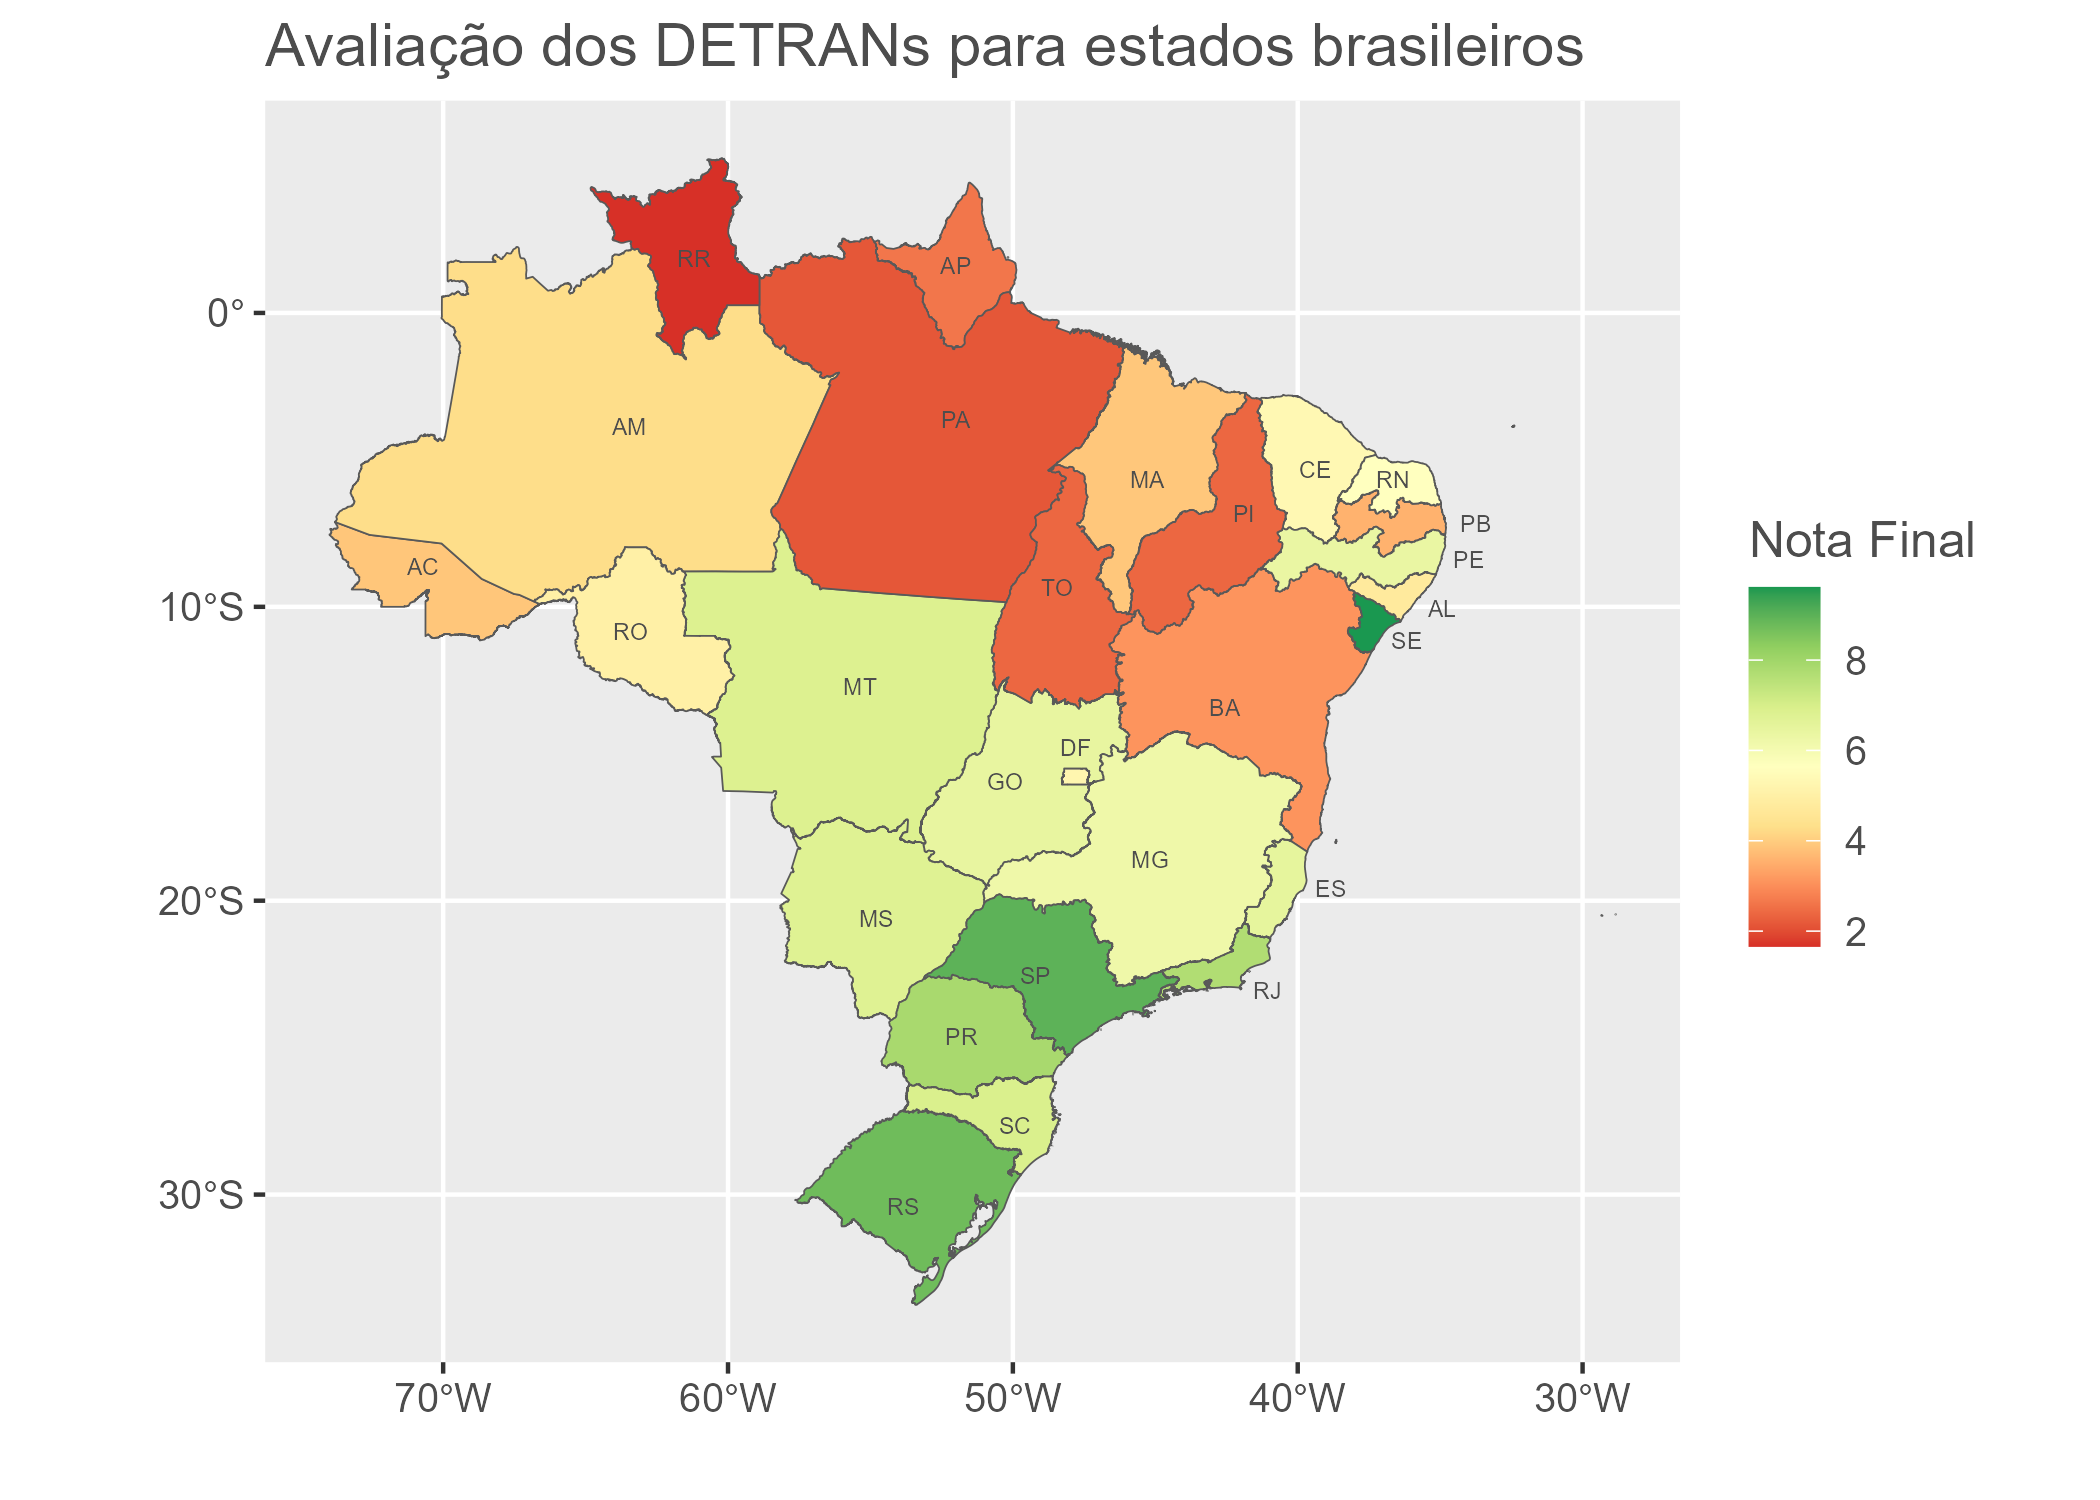
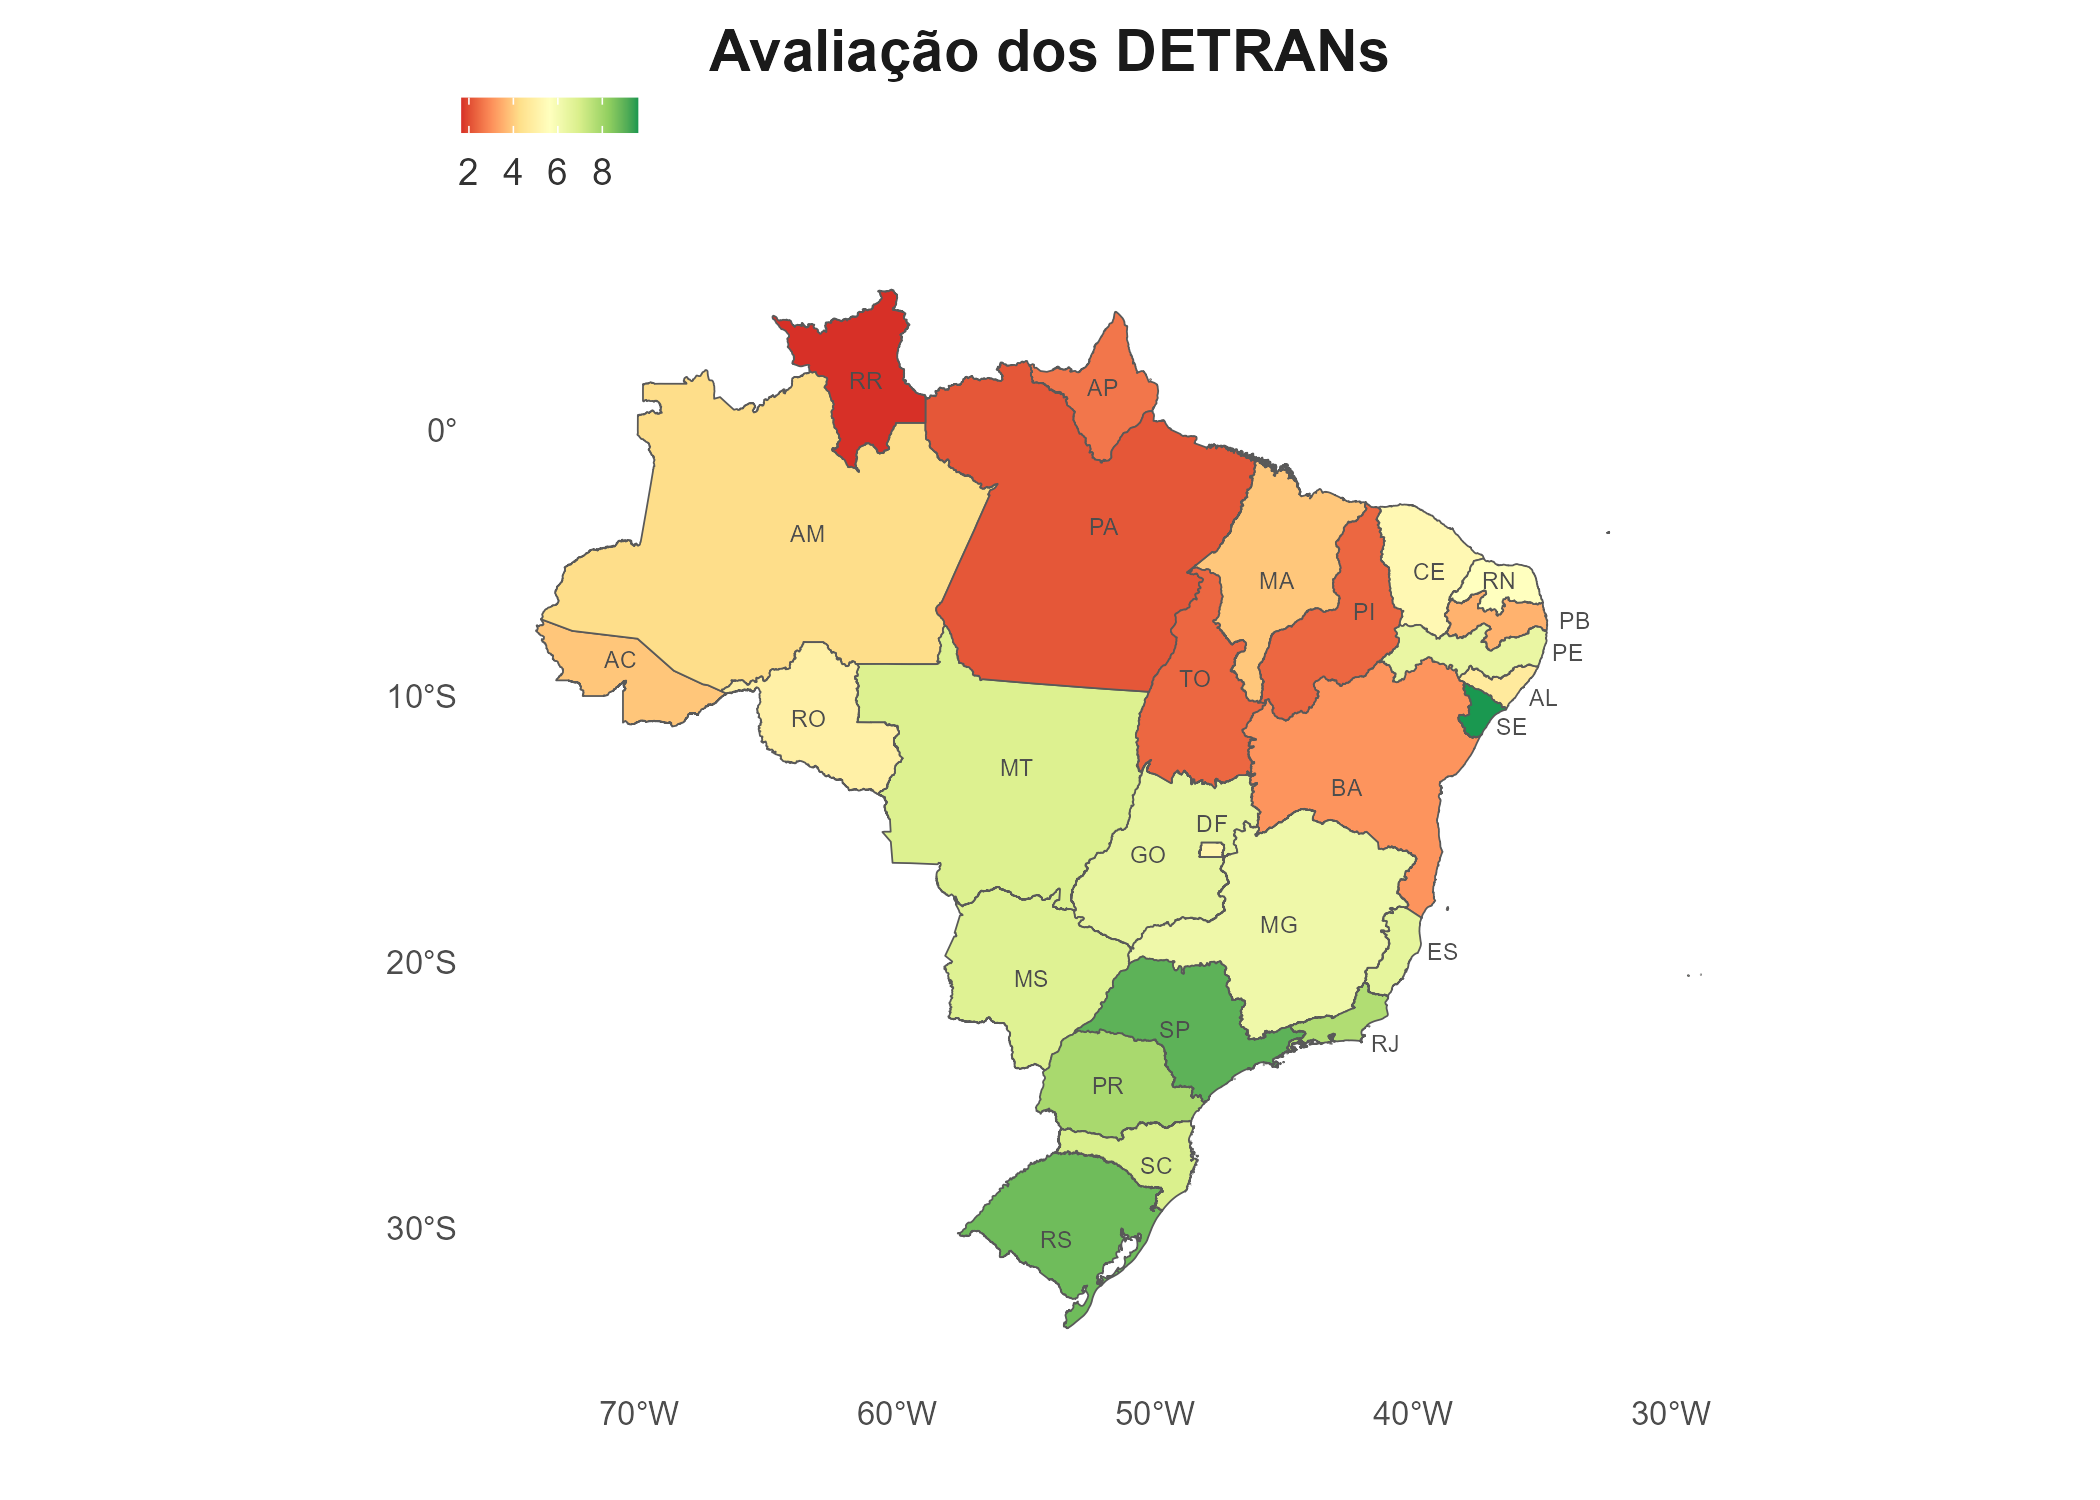
Adds ONSV theme

diff --git a/README.md b/README.md
@@ -9,39 +9,39 @@ unidade federativa brasileira.
 
 ## Resultados
 
-| UF  |     Frota | Condutores | Infrações | Acidentes | Atendimento | Educação | CFCs |     Nota |
-|:----|----------:|-----------:|----------:|----------:|------------:|---------:|-----:|---------:|
-| SE  | 10.000000 |   8.900000 | 10.000000 | 10.000000 |        8.35 |    10.00 | 10.0 | 9.607143 |
-| RS  |  8.900000 |   8.900000 |  8.900000 |  7.800000 |       10.00 |    10.00 |  6.7 | 8.742857 |
-| SP  |  8.900000 |   8.900000 |  8.900000 |  7.800000 |       10.00 |     8.35 | 10.0 | 8.978571 |
-| GO  |  8.900000 |   8.900000 |  8.900000 |  0.000000 |        3.35 |     5.00 | 10.0 | 6.435714 |
-| SC  |  8.900000 |   8.900000 |  8.900000 |  6.666667 |        5.00 |     3.30 |  6.7 | 6.909524 |
-| RN  |  7.766667 |   7.766667 |  7.766667 |  4.433333 |        5.00 |     6.70 |  0.0 | 5.633333 |
-| PR  |  7.766667 |   6.666667 |  7.766667 |  7.766667 |        5.00 |    10.00 | 10.0 | 7.852381 |
-| RJ  | 10.000000 |   4.433333 |  8.900000 |  5.566667 |        5.00 |    10.00 | 10.0 | 7.700000 |
-| MS  |  8.900000 |   6.666667 | 10.000000 |  0.000000 |        5.00 |    10.00 |  6.7 | 6.752381 |
-| MT  |  5.533333 |   5.533333 |  7.766667 |  5.533333 |        8.35 |     8.35 |  6.7 | 6.823810 |
-| PE  |  8.900000 |   8.900000 |  6.666667 |  0.000000 |        3.35 |    10.00 |  6.7 | 6.359524 |
-| MG  |  5.533333 |   5.533333 |  5.533333 |  0.000000 |       10.00 |    10.00 |  6.7 | 6.185714 |
-| DF  |  5.533333 |   5.533333 |  0.000000 |  5.533333 |        3.35 |    10.00 |  6.7 | 5.235714 |
-| ES  |  7.766667 |   5.533333 |  7.766667 |  4.433333 |        3.35 |     6.70 | 10.0 | 6.507143 |
-| CE  |  6.666667 |   6.666667 |  2.200000 |  0.000000 |        5.00 |     6.70 | 10.0 | 5.319048 |
-| RO  | 10.000000 |  10.000000 |  0.000000 | 10.000000 |        3.35 |     1.65 |  0.0 | 5.000000 |
-| AC  |  3.300000 |   3.300000 |  0.000000 |  2.200000 |        1.65 |    10.00 |  6.7 | 3.878571 |
-| AL  |  7.766667 |   0.000000 |  0.000000 |  8.900000 |        3.35 |     3.30 | 10.0 | 4.759524 |
-| AM  |  3.300000 |   3.300000 |  0.000000 |  3.300000 |        3.35 |    10.00 |  6.7 | 4.278571 |
-| MA  |  8.900000 |   0.000000 |  0.000000 |  0.000000 |        3.35 |     8.35 |  6.7 | 3.900000 |
-| PB  |  5.533333 |   5.533333 |  0.000000 |  2.200000 |        1.65 |     3.30 |  6.7 | 3.559524 |
-| BA  |  3.300000 |   3.300000 |  0.000000 |  0.000000 |        3.35 |     5.00 |  6.7 | 3.092857 |
-| AP  |  0.000000 |   0.000000 |  0.000000 |  0.000000 |        1.65 |     6.70 | 10.0 | 2.621429 |
-| PA  |  0.000000 |   0.000000 |  0.000000 |  0.000000 |        5.00 |    10.00 |  0.0 | 2.142857 |
-| TO  |  0.000000 |   0.000000 |  0.000000 |  0.000000 |        5.00 |     5.00 |  6.7 | 2.385714 |
-| PI  |  0.000000 |   0.000000 |  3.300000 |  0.000000 |        1.65 |     5.00 |  6.7 | 2.378571 |
-| RR  |  0.000000 |   0.000000 |  0.000000 |  0.000000 |        1.65 |     3.30 |  6.7 | 1.664286 |
-
-![](README_files/figure-commonmark/unnamed-chunk-3-1.png)
+| UF  | Frota | Condutores | Infrações | Acidentes | Atendimento | Educação | CFCs | Nota |
+|:----|------:|-----------:|----------:|----------:|------------:|---------:|-----:|-----:|
+| SE  | 10.00 |       8.90 |     10.00 |     10.00 |        8.35 |    10.00 | 10.0 | 9.61 |
+| RS  |  8.90 |       8.90 |      8.90 |      7.80 |       10.00 |    10.00 |  6.7 | 8.74 |
+| SP  |  8.90 |       8.90 |      8.90 |      7.80 |       10.00 |     8.35 | 10.0 | 8.98 |
+| GO  |  8.90 |       8.90 |      8.90 |      0.00 |        3.35 |     5.00 | 10.0 | 6.44 |
+| SC  |  8.90 |       8.90 |      8.90 |      6.67 |        5.00 |     3.30 |  6.7 | 6.91 |
+| RN  |  7.77 |       7.77 |      7.77 |      4.43 |        5.00 |     6.70 |  0.0 | 5.63 |
+| PR  |  7.77 |       6.67 |      7.77 |      7.77 |        5.00 |    10.00 | 10.0 | 7.85 |
+| RJ  | 10.00 |       4.43 |      8.90 |      5.57 |        5.00 |    10.00 | 10.0 | 7.70 |
+| MS  |  8.90 |       6.67 |     10.00 |      0.00 |        5.00 |    10.00 |  6.7 | 6.75 |
+| MT  |  5.53 |       5.53 |      7.77 |      5.53 |        8.35 |     8.35 |  6.7 | 6.82 |
+| PE  |  8.90 |       8.90 |      6.67 |      0.00 |        3.35 |    10.00 |  6.7 | 6.36 |
+| MG  |  5.53 |       5.53 |      5.53 |      0.00 |       10.00 |    10.00 |  6.7 | 6.19 |
+| DF  |  5.53 |       5.53 |      0.00 |      5.53 |        3.35 |    10.00 |  6.7 | 5.24 |
+| ES  |  7.77 |       5.53 |      7.77 |      4.43 |        3.35 |     6.70 | 10.0 | 6.51 |
+| CE  |  6.67 |       6.67 |      2.20 |      0.00 |        5.00 |     6.70 | 10.0 | 5.32 |
+| RO  | 10.00 |      10.00 |      0.00 |     10.00 |        3.35 |     1.65 |  0.0 | 5.00 |
+| AC  |  3.30 |       3.30 |      0.00 |      2.20 |        1.65 |    10.00 |  6.7 | 3.88 |
+| AL  |  7.77 |       0.00 |      0.00 |      8.90 |        3.35 |     3.30 | 10.0 | 4.76 |
+| AM  |  3.30 |       3.30 |      0.00 |      3.30 |        3.35 |    10.00 |  6.7 | 4.28 |
+| MA  |  8.90 |       0.00 |      0.00 |      0.00 |        3.35 |     8.35 |  6.7 | 3.90 |
+| PB  |  5.53 |       5.53 |      0.00 |      2.20 |        1.65 |     3.30 |  6.7 | 3.56 |
+| BA  |  3.30 |       3.30 |      0.00 |      0.00 |        3.35 |     5.00 |  6.7 | 3.09 |
+| AP  |  0.00 |       0.00 |      0.00 |      0.00 |        1.65 |     6.70 | 10.0 | 2.62 |
+| PA  |  0.00 |       0.00 |      0.00 |      0.00 |        5.00 |    10.00 |  0.0 | 2.14 |
+| TO  |  0.00 |       0.00 |      0.00 |      0.00 |        5.00 |     5.00 |  6.7 | 2.39 |
+| PI  |  0.00 |       0.00 |      3.30 |      0.00 |        1.65 |     5.00 |  6.7 | 2.38 |
+| RR  |  0.00 |       0.00 |      0.00 |      0.00 |        1.65 |     3.30 |  6.7 | 1.66 |
 
 ![](README_files/figure-commonmark/unnamed-chunk-4-1.png)
+
+![](README_files/figure-commonmark/unnamed-chunk-5-1.png)
 
 ### Anotações
 
